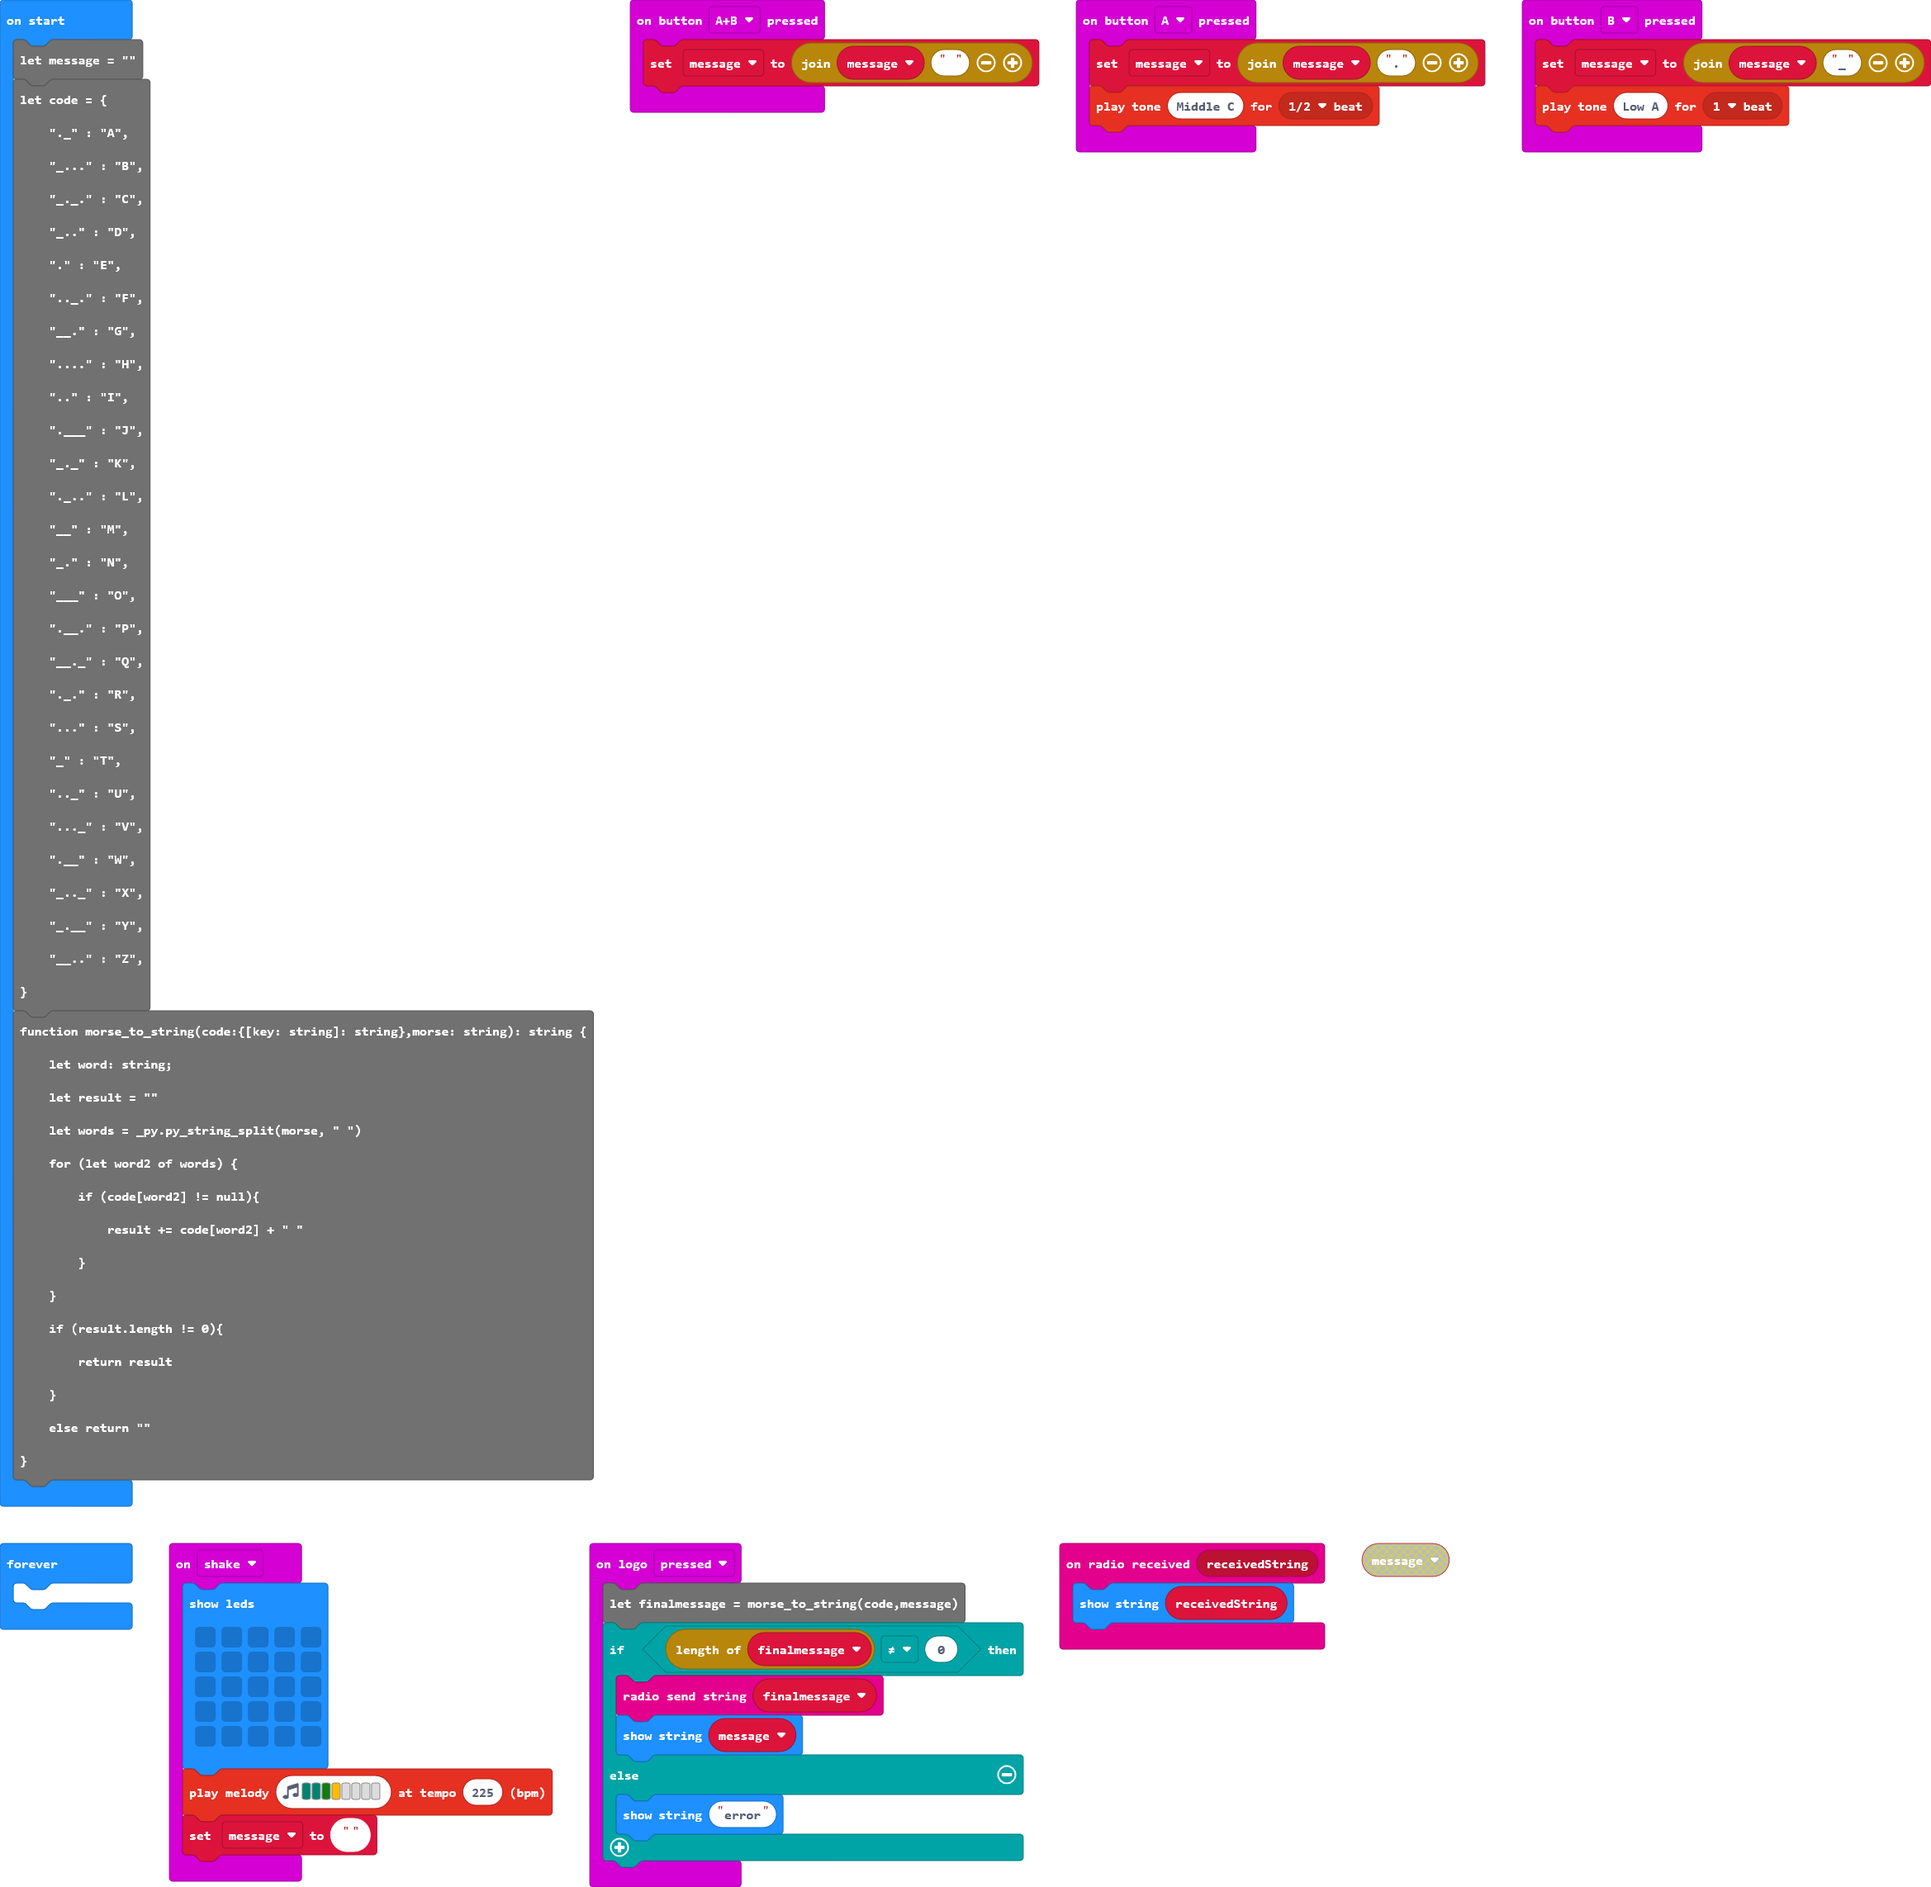
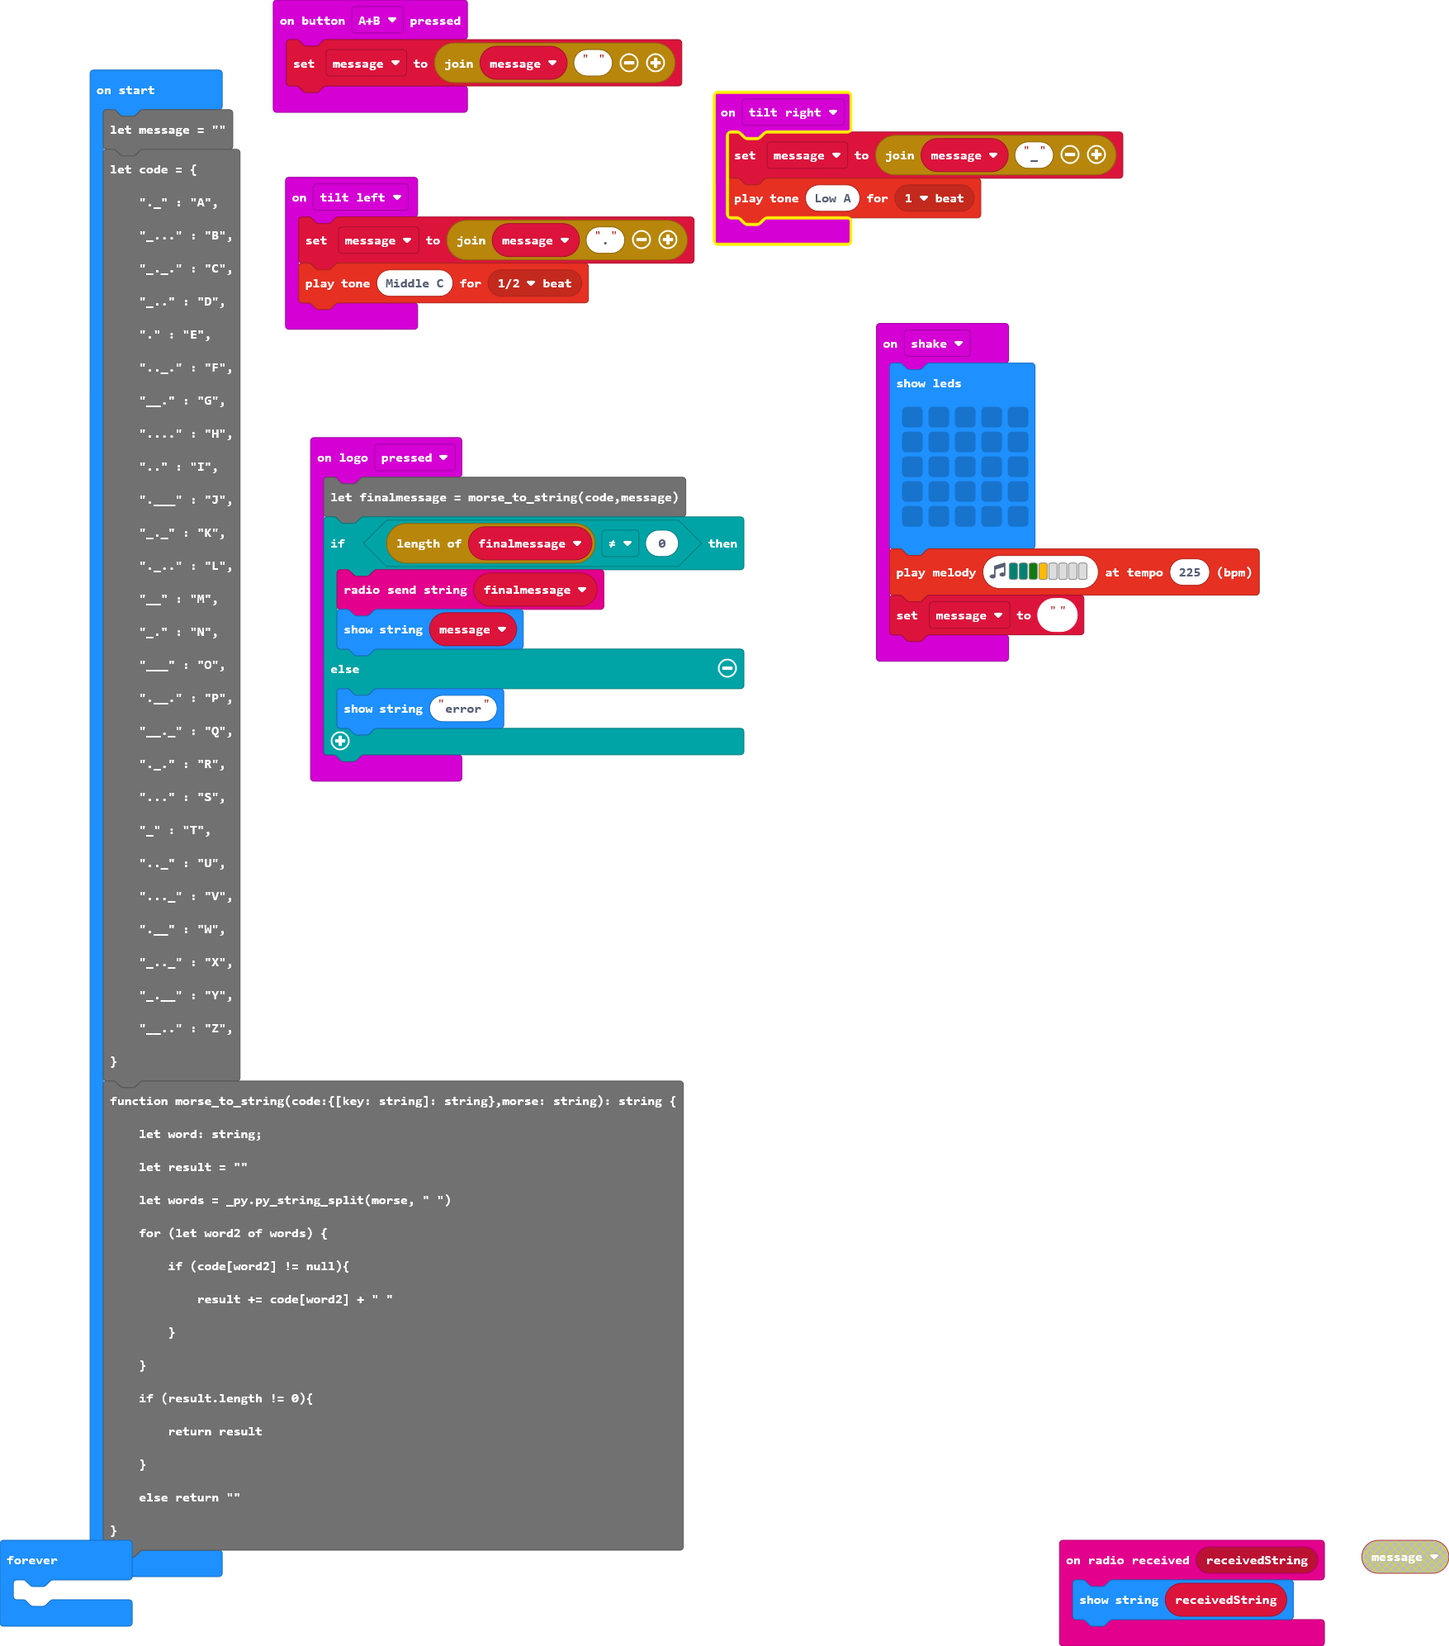
Tilt controls

diff --git a/main.ts b/main.ts
@@ -1,4 +1,4 @@
-input.onButtonPressed(Button.A, function () {
+input.onGesture(Gesture.TiltLeft, function () {
     message = "" + message + "."
     music.playTone(262, music.beat(BeatFraction.Half))
 })
@@ -7,10 +7,6 @@ input.onButtonPressed(Button.AB, function () {
 })
 radio.onReceivedString(function (receivedString) {
     basic.showString(receivedString)
-})
-input.onButtonPressed(Button.B, function () {
-    message = "" + message + "_"
-    music.playTone(220, music.beat(BeatFraction.Whole))
 })
 input.onGesture(Gesture.Shake, function () {
     basic.showLeds(`
@@ -22,6 +18,10 @@ input.onGesture(Gesture.Shake, function () {
         `)
     music.playMelody("F F G A - - - - ", 225)
     message = ""
+})
+input.onGesture(Gesture.TiltRight, function () {
+    message = "" + message + "_"
+    music.playTone(220, music.beat(BeatFraction.Whole))
 })
 input.onLogoEvent(TouchButtonEvent.Pressed, function () {
     let finalmessage = morse_to_string(code,message)
